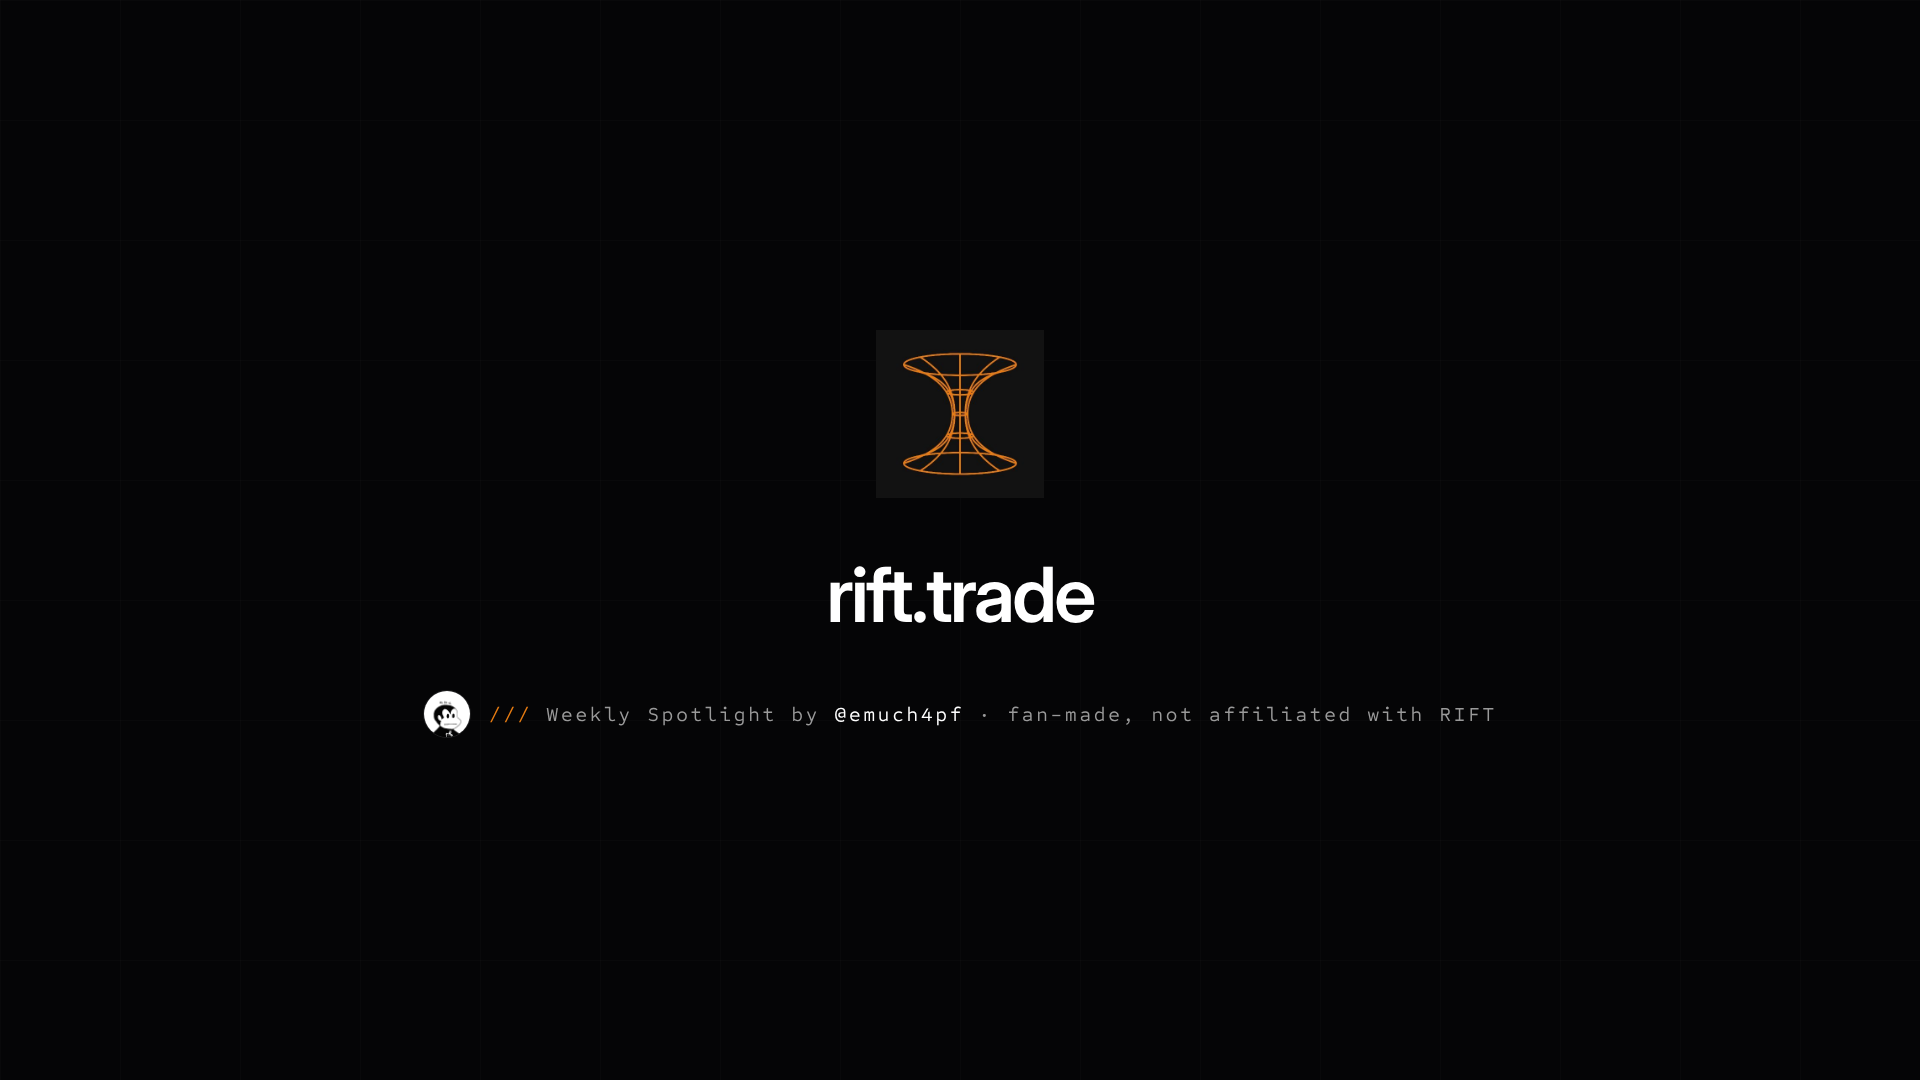
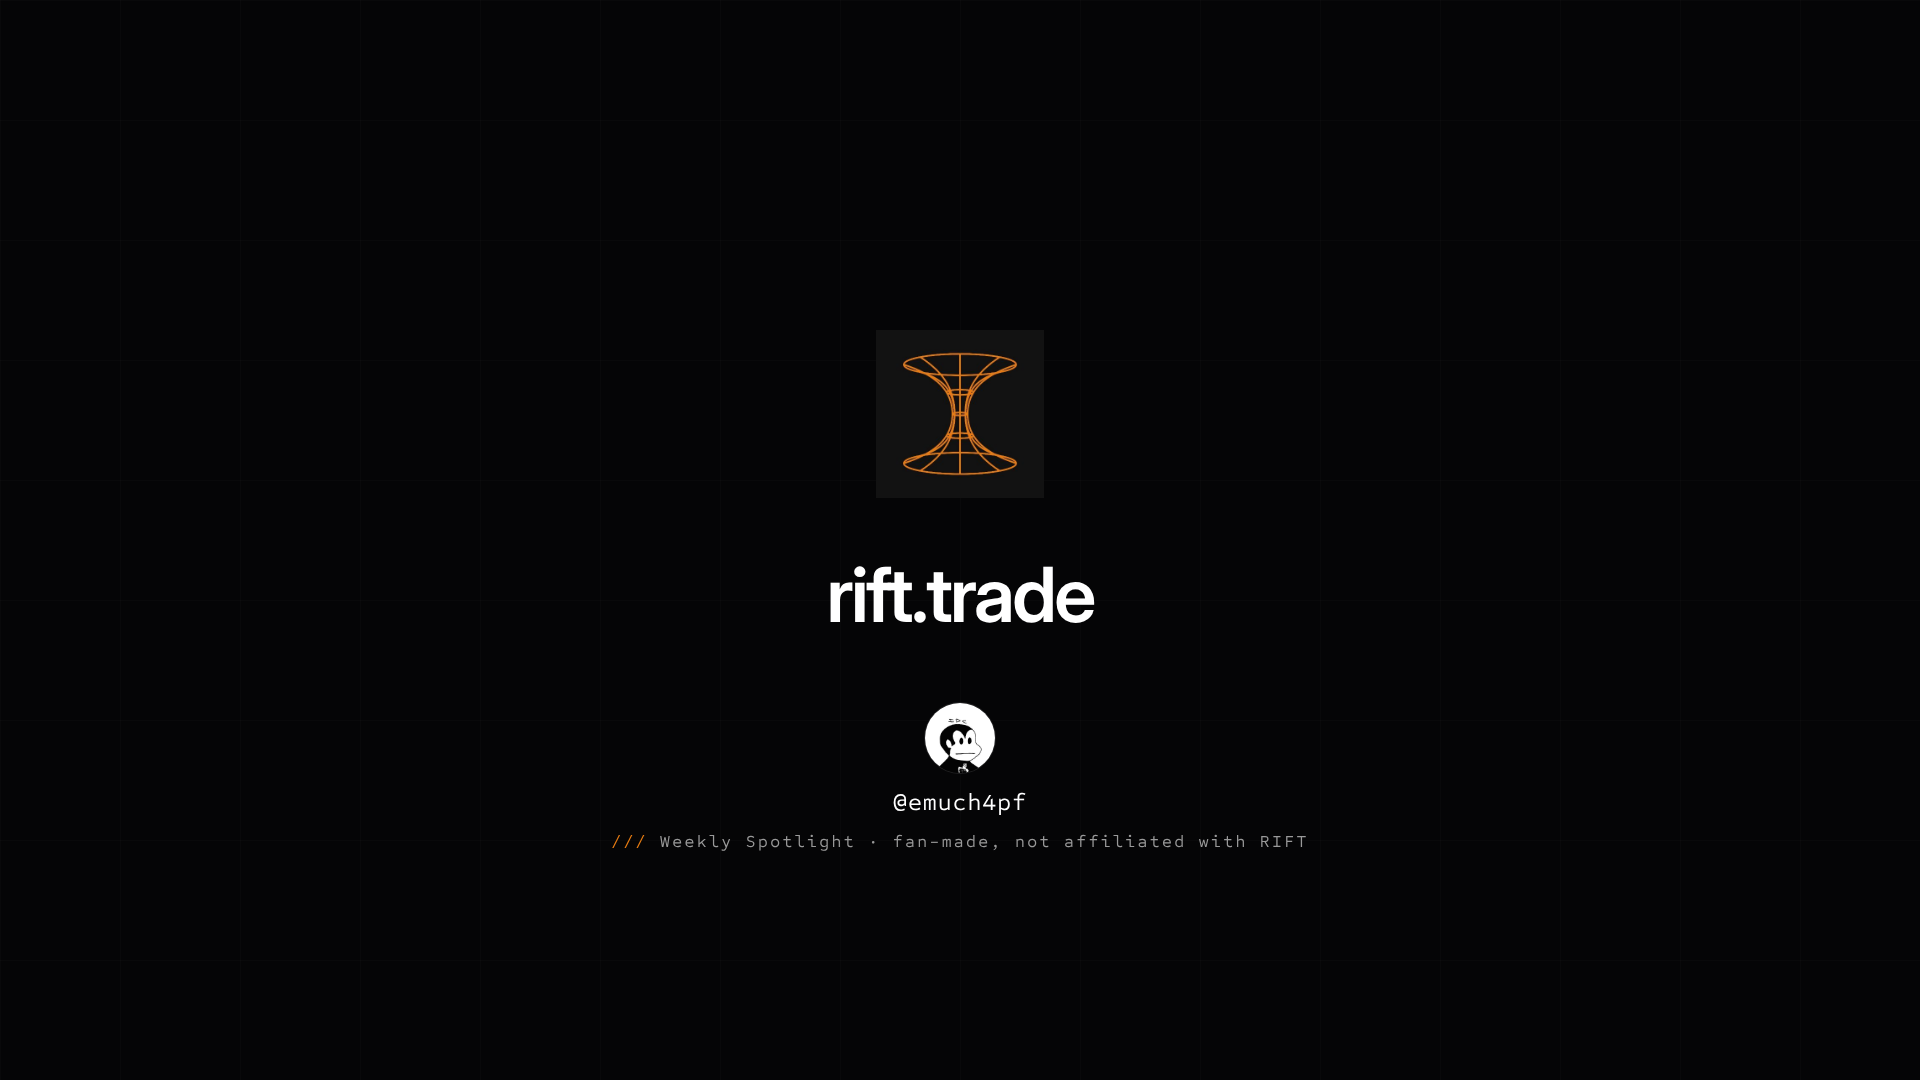
End card: handle sits below pfp
Claude-Session: https://claude.ai/code/session_01UdtyaPgudQetCx4oezbRgZ

diff --git a/rift-spotlight/video/src/scenes/Close.tsx b/rift-spotlight/video/src/scenes/Close.tsx
@@ -61,10 +61,23 @@ export const Close: React.FC = () => {
           rift.trade
         </div>
       </div>
-      <div style={{ position: "absolute", left: 0, width: 1920, top: 690, display: "flex", justifyContent: "center", alignItems: "center", gap: 18, opacity: credit, transform: `translateY(${(1 - credit) * 14}px)` }}>
-        <Img src={staticFile("pfp.jpg")} style={{ width: 48, height: 48, borderRadius: 24, border: `1px solid ${C.line}` }} />
-        <Label size={20} color={C.mute} style={{ letterSpacing: "0.14em", textTransform: "none" }}>
-          <span style={{ color: C.orange }}>///</span> Weekly Spotlight by <span style={{ color: C.white }}>{HANDLE}</span> · fan-made, not affiliated with RIFT
+      <div
+        style={{
+          position: "absolute",
+          left: 0,
+          width: 1920,
+          top: 702,
+          display: "flex",
+          flexDirection: "column",
+          alignItems: "center",
+          opacity: credit,
+          transform: `translateY(${(1 - credit) * 14}px)`,
+        }}
+      >
+        <Img src={staticFile("pfp.jpg")} style={{ width: 72, height: 72, borderRadius: 36, border: `1px solid ${C.line}` }} />
+        <div style={{ fontFamily: F.mono, fontSize: 24, color: C.white, letterSpacing: "0.04em", marginTop: 14 }}>{HANDLE}</div>
+        <Label size={17} color={C.mute} style={{ letterSpacing: "0.14em", textTransform: "none", marginTop: 14 }}>
+          <span style={{ color: C.orange }}>///</span> Weekly Spotlight · fan-made, not affiliated with RIFT
         </Label>
       </div>
     </div>
